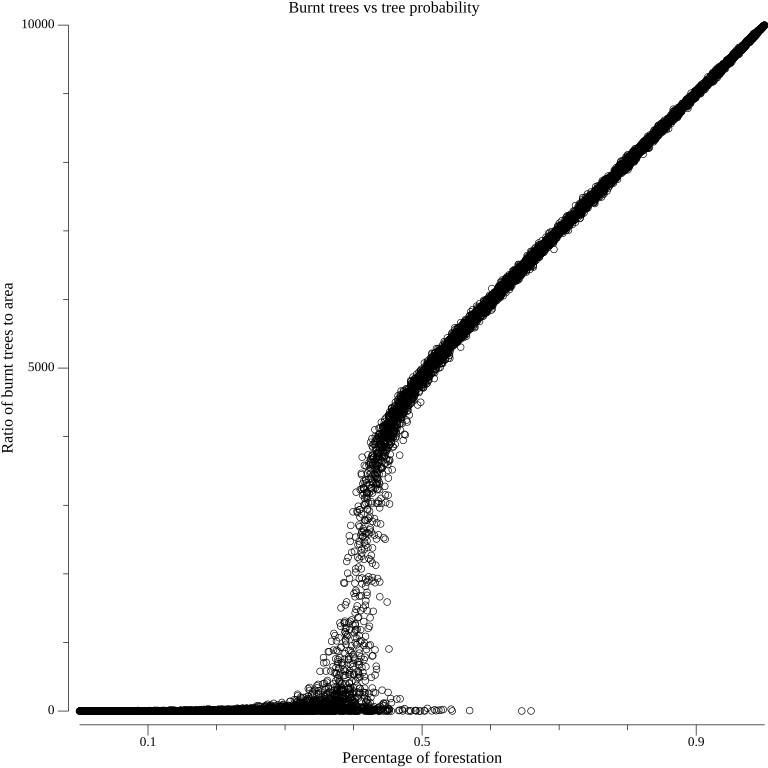
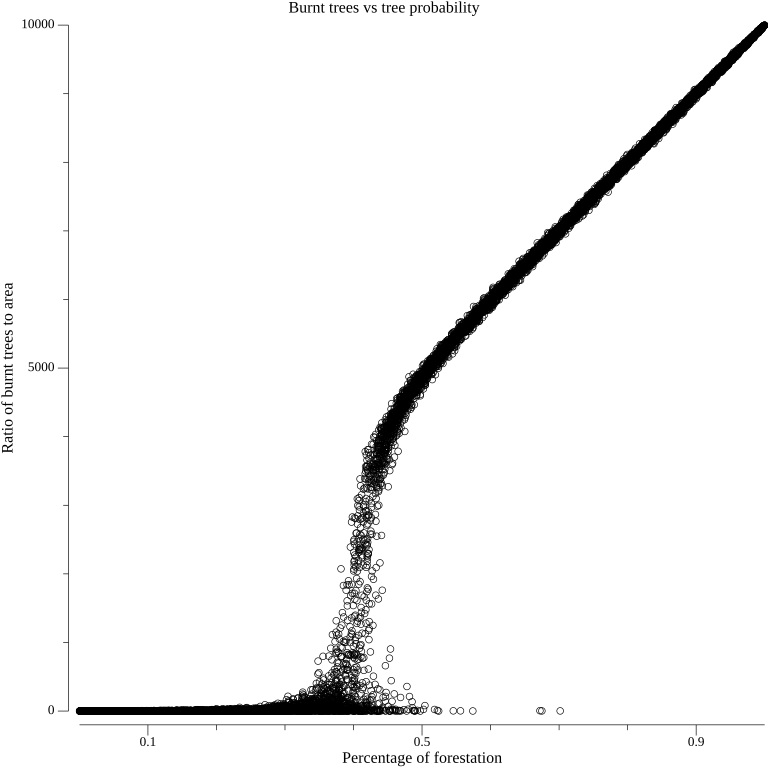
Fixed visualisations and adding LaTeX report

diff --git a/Lab3/main.tex b/Lab3/main.tex
@@ -1,0 +1,67 @@
+\documentclass{article}
+\usepackage{graphicx} % Required for inserting images
+
+\title{Zadanie 2}
+\author{Damian Rogalski}
+\date{Maj 2024}
+
+\begin{document}
+
+\maketitle
+
+\section{Model spalania lasu}
+Program początkowo losowo generuje las na podstawie współczynnika prawdopodobieństwa wygenerowania drzewa. Następnie wywołana funkcja burnForest losowo wybiera startowy punkt rozpoczęcia pożaru. Jeżeli jest nim drzewo to program zaczyna wyszukiwać przyległych drzew (na górze, dole, obok i po ukosie). Jeżeli program znajdzie drzewo to je podpala. Gdy program nie może już znaleźć kolejnych drzew to zwraca spalony las. Jako dodatkowy parametr możemy uwzględnić wiatr w symulacji. Struktura wiatru posiada siłę oraz kierunek. Po zadaniu kierunku i siły wiatru wybór kolejnych drzew przesuwa się we wskazanym zwrocie po ilości drzew równej sile wiatru. Dalsza część działania programu odbywa się jak w bazowej wersji. 
+
+\section{Wyniki symulacji}
+Dla współczynnika prawdopodobieństwa wygenerowania drzewa rzędu 43\% i lasu wielkości 100x100 program zwraca wyniki spalenia powierzchni lasu rzędu 36\%. Ponadto program dla 10000 prób z losowym współczynnikiem wylicza optymalny współczynnik zalesienia, jednakże wyniki są niejednoznaczne i wahają się miedzy 2 a 40\%. Utrudnia to jednoznaczną analizę, jednakże najczęściej otrzymywałem wyniki około 13\%. Jeżeli do symulacji dodamy wpływ wiatru o sile 2 i kierunku w prawo procentowe wyniki spalenia całej powierzchni lasu wynoszą około między 9\% a 30\%, natomiast optymalny stopień zalesienia oscyluje wokół 2\%.
+
+\newpage
+
+\section{Graficzne przedstawienie wyników}
+\subsection{Symulacja bez uwzględnienia wiatru}
+\begin{figure}[h]
+    \begin{minipage}{0.5\textwidth}
+        \centering
+        \includegraphics[width=\linewidth]{original_forest.png}
+        \caption{Wygenerowany las ze współczynnikiem zalesienia 43\%}
+    \end{minipage}\hfill
+    \hskip 1em
+    \begin{minipage}{0.5\textwidth}
+        \centering
+        
+        \includegraphics[width=\linewidth]{burnt_forest.png}
+        \caption{Las po wykonaniu symulacji, procent spalenia to 36.8\%}
+    \end{minipage}\hfill
+    \hskip 1em
+    \begin{minipage}{0.5\textwidth}
+        \centering
+        \includegraphics[width=\linewidth]{burnt_trees.png}
+        \caption{Wykres stopnia zalesienia do spalonej powierzchni lasu}
+    \end{minipage}
+\end{figure}
+
+\newpage
+
+\subsection{Symulacja z uwzględnieniem wiatru (kierunek: w prawo, siła: 2)}
+\begin{figure}[h]
+    \begin{minipage}{0.5\textwidth}
+        \centering
+        \includegraphics[width=\linewidth]{original_forest_wind.png}
+        \caption{Wygenerowany las ze współczynnikiem zalesienia 43\%}
+    \end{minipage}\hfill
+    \hskip 1em
+    \begin{minipage}{0.5\textwidth}
+        \centering
+        
+        \includegraphics[width=\linewidth]{burnt_forest_wind.png}
+        \caption{Las po wykonaniu symulacji, procent spalenia to 29.39\%}
+    \end{minipage}\hfill
+    \hskip 1em
+    \begin{minipage}{0.5\textwidth}
+        \centering
+        \includegraphics[width=\linewidth]{burnt_trees_wind.png}
+        \caption{Wykres stopnia zalesienia do spalonej powierzchni lasu}
+    \end{minipage}
+\end{figure}
+
+\end{document}

diff --git a/Lab3/main.go b/Lab3/main.go
@@ -34,22 +34,30 @@ func main() {
 	forest := generateForest(rows, cols, treeProbability)
 
 	// print the original forest
-	fmt.Println("Forest:")
-	for i := range forest {
-		fmt.Println(forest[i])
-	}
+	// fmt.Println("Forest:")
+	// for i := range forest {
+	// 	fmt.Println(forest[i])
+	// }
+
+	// generate a visualisation of the forest
+	visualizeForest(forest, "original_forest.png")
+	fmt.Println("Visualisation generated: original_forest.png")
 
 	// define the wind (to the right in this case)
-	wind := Wind{Direction: [2]int{0, 0}, Strength: 1} // 0, 0 - no wind
+	wind := Wind{Direction: [2]int{0, 1}, Strength: 2} // 0, 0 - no wind
 
 	// run the simulation
 	burntForest := burnForest(forest, rows, cols, wind)
 
 	// print the burnt forest
-	fmt.Println("Burnt forest:")
-	for i := range burntForest {
-		fmt.Println(burntForest[i])
-	}
+	// fmt.Println("Burnt forest:")
+	// for i := range burntForest {
+	// 	fmt.Println(burntForest[i])
+	// }
+
+	// generate a visualisation of the burnt forest
+	visualizeForest(burntForest, "burnt_forest.png")
+	fmt.Println("Visualisation generated: burnt_forest.png")
 
 	// count the number of burnt trees
 	burntTrees := countBurntTrees(burntForest)
@@ -75,12 +83,6 @@ func main() {
 	plotFilename := "burnt_trees.png"
 	generatePlot(results, plotFilename)
 	fmt.Println("Plot generated:", plotFilename)
-
-	// generate visualizations
-	visualizeForest(forest, "original_forest.png")
-	fmt.Println("Visualisation generated: original_forest.png")
-	visualizeForest(burntForest, "burnt_forest.png")
-	fmt.Println("Visualisation generated: burnt_forest.png")
 }
 
 func burnForest(forest [][]int, rows, cols int, wind Wind) [][]int {
